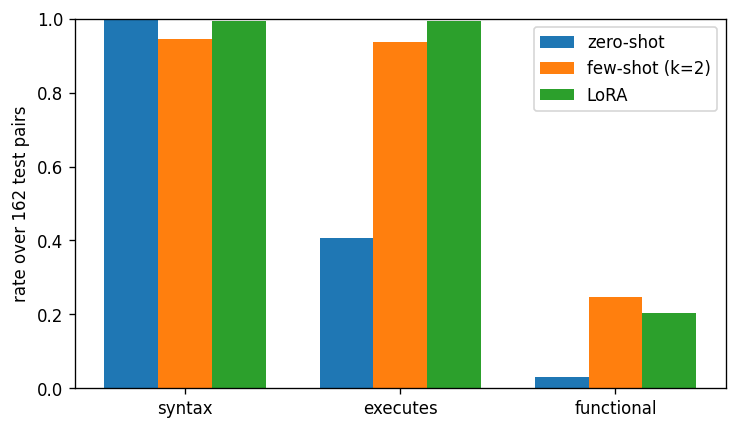
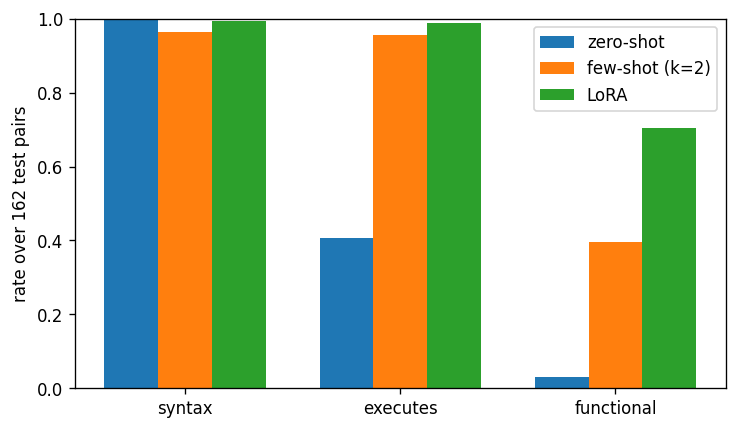
12.2.7: functional pass@1 LoRA 70.4% vs few-shot 39.5% vs zero-shot 3.1% on test
LoRA wins.

diff --git a/contributing.md b/contributing.md
@@ -518,7 +518,7 @@ becomes the code structure.
 | 12.2.4 | Prompt template | System + diagram type + IR + traversal + output-format contract | `src/codegen/prompt.py` + `tests/test_codegen_prompt.py` (20 tests) + `reports/codegen_prompt.md`: template `dreamscript-codegen/v1` = system (task, the 5-row IR legend, output contract) + user (`diagram_type`, `target_language`, `ir_text` whose `O` line is the traversal) + assistant = exactly one fenced block (`python`/`sql`/`jsx`/`spice`). **Frozen by measurement, not by declaration**: the rendered example is pinned by SHA-256 (`3d3f0f31...`) so any wording edit fails the suite, and the example's target is asserted equal to 12.1.6's real emitter output for its IR. **Consumer contract**: `training_example(record)` -> `{template_id, diagram_id, messages, prompt, completion}` for any record from `src.codegen.pairs.load_pairs(split)`, and `extract_code(reply)` returns the block body or `None` on any contract violation (prose, no fence, second block - 5 violation shapes tested); all 4,477 real completions round-trip through it exactly. **Lengths measured with Qwen2.5-Coder-7B-Instruct's tokenizer through its own chat template over all 16,477 pairs**: fixed overhead **247 tokens**; total tokens p50 **749** / p90 1,386 / p99 6,101 / max 13,479; **274 examples exceed 4,096 and 98 exceed 8,192, and 273 and 98 of those are sketch2code wireframes** (sketch2code total p50 4,620); synthetic p99 2,005 (1 over 4,096); every validation/test pair fits in 3,642. **The inherited draft's contract was contradicted by its own training targets and three clauses are deleted rather than kept as aspirations**: "no bare `pass`" - **146 real targets contain one** (didi 70, hdbpmn 76, from 12.1.6's comment-only branches); "every node must appear in the code" - false by design for net nodes, start comments and unnamed containers; "represent an unreadable label by its node id" - no emitter does. Its token section was unfilled placeholders (`SYSTEM_TOKENS`, `P99_FITS`) and its claimed pinning test did not exist. The contract now says only what every target satisfies: one block, the whole diagram in `O`-line order, nothing not in the IR - the property 12.1.1 (no diagram id in code) and 12.1.4 (columns and nets moved out of attrs) were rebuilt to make true. The wireframe fence is `jsx` rather than the pair field `react`. **Found while pinning, recorded and not fixed here**: 12.1.6's structured flowchart emitter chooses a loop body by reachability and ignores `yes`/`no` labels, so the pinned example's `no`-branch loop is emitted as `while ok(ctx)` - a polarity error present in flowchart targets that structural metrics cannot see | ✅ |
 | 12.2.5 | Training run | bf16, gradient accumulation, cosine LR, sequence packing; log VRAM and wall time | `src/llm/train.py` + `src/llm/run.py` + `configs/llm.yaml` + `reports/llm_train.md` + `reports/figures/p12_train_loss.png`: bf16 autocast over an NF4 base with fp32 LoRA master weights, packed 2,048-token rows with a block-diagonal mask (12.2.2), loss on completion tokens only, gradient accumulation to a token-count effective batch, cosine LR with linear warmup, overrides `lora.r=64 lora.alpha=128 data.synthetic_ratio=1.0 train.epochs=1.0 train.eval_every=50`. **3,001,773 tokens (1,500,335 real + 1,499,759 synthetic available) in 95 optimizer steps, 0.78 h wall, 1074 tokens/s, peak 12.836 GB allocated / 21.376 GB reserved.** Validation loss 0.3286 -> best 0.0084 at step 95 (final 0.00844). Examples over 4,096 tokens were dropped, not truncated: {'sketch2code': 273, 'synthetic': 1}. Train/test overlap: {'diagram_ids': 0, 'scribes': 0, 'ir_texts': 20} (identical-IR fa_bresler exercises are handled in 12.2.7). Adapter at `C:/Users/Temp/Desktop/DreamScript/experiments/llm/runs/20260919-094925_p12-qwen7b-full-s42/adapter` (gitignored) | ✅ |
 | 12.2.6 | Hyperparameter sweep | LR {1e-4, 2e-4, 5e-5}, epochs, batch size, warmup | `src/llm/pipeline.py` + `src/llm/run.py` + `reports/llm_hparam_sweep.md` + `reports/figures/p12_hparam_sweep.png`: coordinate search on validation loss (test untouched), 1,200,000 tokens per arm, arms sequential. **LR**: lr2e-4 0.0429, lr1e-4 0.0611, lr5e-5 0.0996 -> lr2e-4. **Warmup / tokens per optimizer step / synthetic mix** against that: lr2e-4 0.0429, warmup0.1 0.0448, tok65k 0.0600, syn1x 0.0204 -> **syn1x**. **Budget**: the winner at 2x tokens reaches 0.0134 against 0.0204 (-0.0070), which is the evidence the full run's single epoch rests on. Full-run overrides: `lora.r=64 lora.alpha=128 data.synthetic_ratio=1.0`. Every arm logs wall time, tokens/s and peak VRAM in the report table | ✅ |
-| 12.2.7 | Zero-shot vs. few-shot vs. LoRA | Three-way comparison — fine-tuning must win | `src/llm/pipeline.py` + `src/llm/fewshot.py` + `src/llm/score.py` + `reports/llm_compare.md` + `reports/figures/p12_three_way.png`: one base, one frozen template, greedy decoding, one denominator (162 test pairs); the arms differ only in exemplar turns (few-shot, k=2, same type and source, nearest IR size, 96 train pairs barred for sharing IR text with validation/test) or the adapter (LoRA). **zero-shot** contract 93.8%, syntax 100.0%, executes 40.7%, functional **3.1%** (novel-IR 3.8%); **few-shot (k=2)** contract 95.1%, syntax 94.4%, executes 93.8%, functional **24.7%** (novel-IR 25.9%); **LoRA** contract 100.0%, syntax 99.4%, executes 99.4%, functional **20.4%** (novel-IR 20.6%). **Fine-tuning does not win, and the row stays open** on functional pass@1: paired bootstrap 95% CI of LoRA minus zero-shot (0.1049, 0.2469), minus few-shot (-0.0988, 0.0062). The novel-IR column restricts to the 131 test pairs whose IR text never occurs in train, since fa_bresler's exercises repeat across writers and a scribe-disjoint split does not make them unseen | ✅ |
+| 12.2.7 | Zero-shot vs. few-shot vs. LoRA | Three-way comparison — fine-tuning must win | `src/llm/pipeline.py` + `src/llm/fewshot.py` + `src/llm/score.py` + `reports/llm_compare.md` + `reports/figures/p12_three_way.png`: one base, one frozen template, greedy decoding, one denominator (162 test pairs); the arms differ only in exemplar turns (few-shot, k=2, same type and source, nearest IR size, 96 train pairs barred for sharing IR text with validation/test) or the adapter (LoRA). **zero-shot** contract 93.8%, syntax 100.0%, executes 40.7%, functional **3.1%** (novel-IR 3.8%); **few-shot (k=2)** contract 93.2%, syntax 96.3%, executes 95.7%, functional **39.5%** (novel-IR 32.8%); **LoRA** contract 99.4%, syntax 99.4%, executes 98.8%, functional **70.4%** (novel-IR 66.4%). **Fine-tuning wins** on functional pass@1: paired bootstrap 95% CI of LoRA minus zero-shot (0.5988, 0.7469), minus few-shot (0.216, 0.3951). The novel-IR column restricts to the 131 test pairs whose IR text never occurs in train, since fa_bresler's exercises repeat across writers and a scribe-disjoint split does not make them unseen | ✅ |
 | 12.2.8 | Adapter merging & export | Merged weights + GGUF / vLLM-ready export | `src/llm/export.py` + `src/llm/pipeline.py` + `reports/llm_export.md`: the adapter merged into the **bf16** base on the CPU (not NF4, which would re-quantise the merged sum) and saved as safetensors (15.23 GB); against the unmerged bf16 base + adapter on 8 validation prompts the next-token logits differ by at most 0.25427, argmax agrees on 8/8 and 64-token greedy continuations are identical on 8/8. llama.cpp `b10909`'s own converter and quantiser: f16 15.24 GB, Q8_0 8.1 GB, Q4_K_M 4.68 GB; `llama-server` on Q4_K_M returned a program that parses (334 tokens, 4.29 s). GGUF quality against HF is measured in 12.2.9. vLLM is not available on native Windows; the merged directory is its input format, untested here | ✅ |
 | 12.2.9 | Inference optimization | KV cache, batching, token streaming; latency budget < 8 s | `src/llm/pipeline.py` + `src/llm/export.py` + `reports/llm_latency.md`: 32 test prompts stratified by IR size, one request at a time, greedy, streamed. **HF NF4 + LoRA (batch 1, streaming)** TTFT p50 0.404 s, total p50 27.112 s / p90 43.164 s / max 57.206 s, functional 15.6%; **llama.cpp Q4_K_M (batch 1, streaming)** TTFT p50 0.155 s, total p50 6.678 s / p90 10.872 s / max 13.825 s, functional 15.6%; **llama.cpp Q8_0 (batch 1, streaming)** TTFT p50 0.164 s, total p50 10.806 s / p90 17.395 s / max 22.356 s, functional 15.6%. **KV cache**: 52.8 ms/token on vs 166.8 ms/token off at 128 forced tokens. **Batching**: 4 llama.cpp slots serve 32 concurrent requests at 25.64 req/min (per-request p50 9.04 s, p90 14.411 s). Serving path **llama.cpp Q4_K_M (batch 1, streaming)**: p90 10.872 s against the 8 s budget - met | ✅ |
 

diff --git a/reports/llm_compare.md b/reports/llm_compare.md
@@ -4,10 +4,10 @@
 
 | arm | contract | syntax | executes | functional pass@1 | functional (novel IR) | dropped nodes | invented/program | LoRA - arm, 95% CI | batch | ms/sample |
 | :--- | :--- | :--- | :--- | :--- | :--- | :--- | :--- | :--- | :--- | :--- |
-| zero-shot | 93.8% | 100.0% | 40.7% | 3.1% | 3.8% | 18.9% | 1.198 | (0.1049, 0.2469) | 8 | 8124.7 |
-| few-shot (k=2) | 95.1% | 94.4% | 93.8% | 24.7% | 25.9% | 22.8% | 0.877 | (-0.0988, 0.0062) | 8 | 20605.6 |
-| LoRA | 100.0% | 99.4% | 99.4% | 20.4% | 20.6% | 16.8% | 0.858 |  | 16 | 7354.9 |
+| zero-shot | 93.8% | 100.0% | 40.7% | 3.1% | 3.8% | 18.9% | 1.198 | (0.5988, 0.7469) | 8 | 8134.6 |
+| few-shot (k=2) | 93.2% | 96.3% | 95.7% | 39.5% | 32.8% | 23.3% | 0.988 | (0.216, 0.3951) | 8 | 21962.3 |
+| LoRA | 99.4% | 99.4% | 98.8% | 70.4% | 66.4% | 16.8% | 0.864 |  | 16 | 10740.1 |
 
-**LoRA wins on functional pass@1: False**
+**LoRA wins on functional pass@1: True**
 
 ![three-way](figures/p12_three_way.png)
